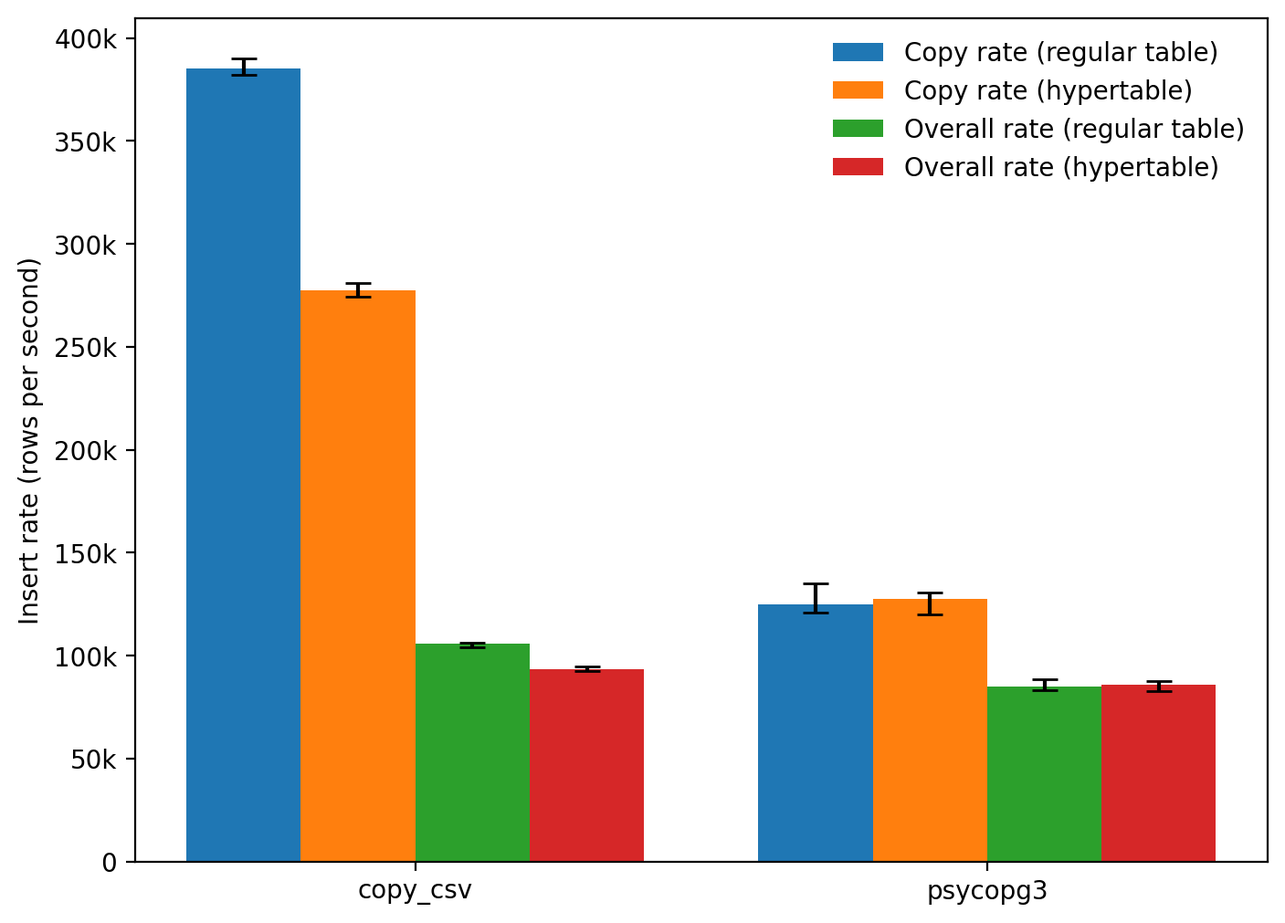
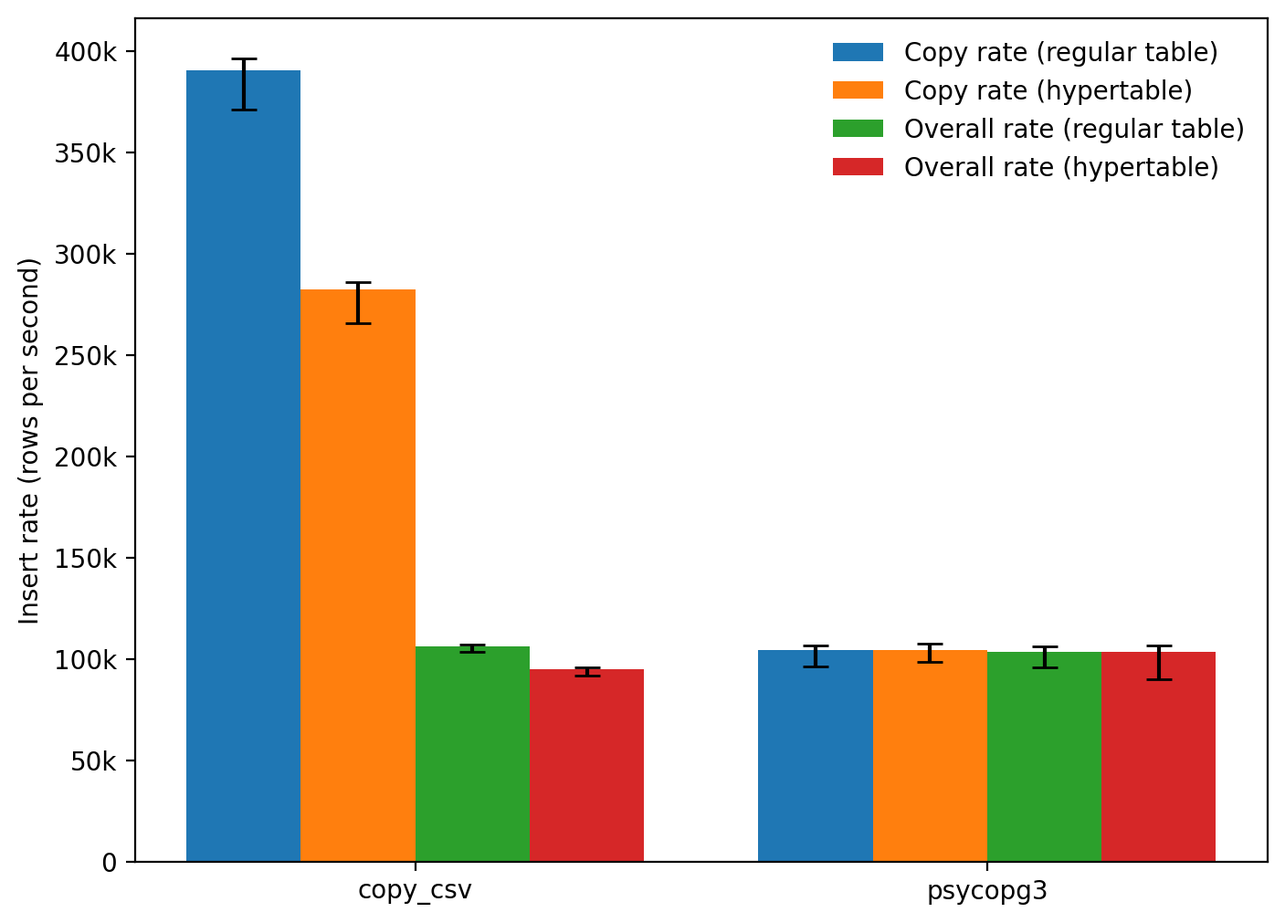
First blog post complete I think!

diff --git a/_posts/2024-03-29-trillion-rows.md b/_posts/2024-03-29-trillion-rows.md
@@ -19,23 +19,23 @@ github_discussion: https://github.com/ali-ramadhan/ali-ramadhan.Github.io/discus
 
 I think it would be cool to have historical weather data from around the world to analyze for signals of climate change we've _already_ had rather than think about potential future change.
 
-If we had a huge weather data warehouse we could query it to figure out whether Dallas is actually warmer or stormier these days and exactly how is it warmer (heat waves, winter highs, etc.). Or whether Chile is warming or getting cloudier as a whole, which could be region-specific. We could do this kind of analysis for every city or region on Earth to find out which places have already experienced the most climate change and what kind of change.
+If we had a huge weather data warehouse we could query it to figure out whether Jakarta is actually warmer or stormier these days and exactly how is it warmer (heat waves, winter highs, etc.). Or whether Chile is warming or getting cloudier as a whole, which could be region-specific. We could do this kind of analysis for every city or region on Earth to find out which places have already experienced the most climate change and what kind of change.
 
-But to do this analysis globally we need to make the data warehouse fast, and there's a lot of data. The first step is to load the data into a database of some kind. Even though I have no experience with PostgreSQL I want to load the data into Postgres and use TimescaleDB to speed up time-based queries and eventually PostGIS to speed up geospatial queries.
+But to do this analysis globally we need to make querying the data warehouse fast, and there's a lot of data. The first step is to load the data into a database of some kind. I'm going to try using PostgreSQL here. It should be a good learning experience and using TimescaleDB to speed up time-based queries and eventually PostGIS to speed up geospatial queries seems promising.
 
 To get there though we first need to load all this data into Postgres and this is what this post is about. Initial attempts at loading the data seemed slow so I wanted to investigate how to do this fast, leading me down a rabbit hole and me writing this.[^postgres-guide]
 
-[^postgres-guide]: The Postgres documentation does have a nice list of performance tips for [populating a database](https://www.postgresql.org/docs/current/populate.html) but I wanted some benchmarks and to include some external tools as well.
+[^postgres-guide]: The Postgres documentation does have a nice list of performance tips for [populating a database](https://www.postgresql.org/docs/current/populate.html) but I wanted some benchmarks and to consider some external tools as well.
 
-Are we building a data warehouse? Maybe, I don't even know. Is a relational database even appropriate for gridded weather data? No idea but we'll find out.
+Are we building a data warehouse? I think so...? Is a relational database even appropriate for gridded weather data? No idea but we'll find out.
 
 ## What's the data?
 
-We are not working with actual weather observations. They are great, but can be sparse in certain regions. Instead, we will be working with the ERA5 climate reanalysis product[^era5-explanation]. It's our best estimate of the historical state of the Earth's weather and is widely used in weather and climate research.
+We are not working with actual weather observations. They are great, but can be sparse in certain regions especially in the past. Instead, we will be working with the ERA5 climate reanalysis product[^era5-explanation]. It's our best estimate of the historical state of the Earth's weather and is widely used in weather and climate research.
+
+[^era5-explanation]: ERA5 is the latest [climate reanalysis](https://en.wikipedia.org/wiki/Atmospheric_reanalysis) product produced by the [ECMWF re-analysis](https://en.wikipedia.org/wiki/ECMWF_re-analysis) project. ECMWF is the [European Centre for Medium-Range Weather Forecasts](https://en.wikipedia.org/wiki/European_Centre_for_Medium-Range_Weather_Forecasts).
 
 The data is output from a climate model run that is constrained to match weather observations. So where we have lots of weather observations, ERA5 should match it closely. And where we do not have any weather observations, ERA5 will be physically consistent and should match the climatology, i.e. the simulated weather's statistics should match reality. At the top of this page is a snapshot of what global surface temperature looks like and below is a snapshot of global precipitation.
-
-[^era5-explanation]: ERA5 is the latest [climate reanalysis](https://en.wikipedia.org/wiki/Atmospheric_reanalysis) product produced by the [ECMWF re-analysis](https://en.wikipedia.org/wiki/ECMWF_re-analysis) project. ECMWF is the European Centre for Medium-Range Weather Forecasts.
 
 <figure class="centered" markdown="block">
 
@@ -45,7 +45,7 @@ The data is output from a climate model run that is constrained to match weather
 
 </figure>
 
-ERA5 covers the entire globe at 0.25 degree resolution, and stretches back in time to 1940 with hourly resolution. Here's what a time series of temperature looks like at one location.
+Here's what a time series of temperature looks like at one location.
 
 <figure class="centered width-80" markdown="block">
 
@@ -55,11 +55,11 @@ ERA5 covers the entire globe at 0.25 degree resolution, and stretches back in ti
 
 </figure>
 
-Hourly data stretching back to 1940 is 727,080 snapshots in time for each variable like temperature, precipitation, cloud cover, wind speed, etc. And at 0.25 degree resolution we have 1,036,080 locations. Together that's 753,836,544,000 or ~754 billion rows of data if indexed by time and location. That's a good amount of data. And as I found out, it's not trivial to quickly shove this data into a relational database, much less be able to query it quickly.
+ERA5 covers the entire globe at 0.25 degree resolution, and stretches back in time to 1940 with hourly resolution. Hourly data stretching back to 1940 is 727,080 snapshots in time for each variable like temperature, precipitation, cloud cover, wind speed, etc. A regularly-spaced latitude-longitude grid at 0.25 degree resolution has 1,038,240 grid points or locations (1440 longitudes and 721 latitudes including both poles). Together that's 753,836,544,000 or ~754 billion rows of data if indexed by time and location. That's a good amount of data. And as I found out, it's not trivial to quickly shove this data into a relational database, much less be able to query it quickly.
 
-The data is distributed as NetCDF[^netcdf-explanation] files indexed by time which makes it quick and easy to query the dataset at single points in time, but looking at temporal patterns is very slow as many files need to be read to pull out a single time series. It takes like 20~30 minutes to pull out temperature data for one location to make the plot above! Complex geospatial queries, especially over time, will be slow and difficult to perform. Packages like [xarray](https://xarray.dev/) and [dask](https://www.dask.org/) (and efforts by [Pangeo](https://pangeo.io/)) speed things up but it's still a slow process.
+The ERA5 data is distributed as NetCDF[^netcdf-explanation] files. You can query an API for the data or download it from certain providers but generally each file contains data for a day, a month, or a year. This chunking by time makes it quick and easy to query the dataset at single points in time, but looking at temporal patterns is very slow as many files need to be read to pull out a single time series. It takes like 20~30 minutes to pull out temperature data for one location to make the plot above! Complex geospatial queries, especially over time, will be slow and difficult to perform. Packages like [xarray](https://xarray.dev/) and [dask](https://www.dask.org/) (and efforts by [Pangeo](https://pangeo.io/)) speed things up but it's still a slow process.
 
-[^netcdf-explanation]: [NetCDF](https://en.wikipedia.org/wiki/NetCDF) (Network Common Data Form) files are ubiquitous in distributing output data from weather and climate models. They typically store multi-dimensional arrays for each variable output along with enough metadata that you don't need to refer to external documentation to use the data. The good ones do this at least.
+[^netcdf-explanation]: [NetCDF](https://en.wikipedia.org/wiki/NetCDF) (Network Common Data Form) files are ubiquitous in distributing model output in climate science, atmospheric science, and oceanography. They typically store multi-dimensional arrays for each variable output along with enough metadata that you don't need to refer to external documentation to understand and use the data. The good ones do this at least.
 
 We'll just load in temperature, zonal and meridional wind speeds, total cloud cover, precipitation, and snowfall for each time and location so we'll use this table schema:
 
@@ -78,7 +78,7 @@ create table weather (
 );
 ```
 
-And before you mention database normalization, yes I have both a `location_id` column and `latitude` and `longitude` columns. It's for later benchmarking whether spatial queries benefit from a normalized `locations` table.
+And before you mention database normalization, yes I have both a `location_id` column and `latitude` and `longitude` columns. It's for later benchmarking with queries and indexes.
 
 # The `insert` statement
 
@@ -171,9 +171,9 @@ insert into weather (
      6.303482, 6.017273, 0.88571167, 1.9253268, 0);
 ```
 
-This is faster for a few reasons. There's less network overhead as each single-row insert requires a network round trip for each row inserted. Postgres also only has to parse and plan once. Multi-row inserts can also be further optimized when it comes to updating indexes. It seems that you can bulk insert as many rows as you want as long as they fit in memory (or get too big that it's detrimental).
+This is faster for a few reasons. There's less network overhead as each single-row insert requires a network round trip for each row inserted. Postgres also only has to parse and plan once. Multi-row inserts can also be further optimized when it comes to updating indexes. It seems that you can bulk insert as many rows as you want as long as they fit in memory.
 
-In pandas it sounds like you can do this by passing the `method="multi"` keyword argument to the `df.to_sql()` function but I found this to be a bit slower than single-row inserts with `chunksize=1`. So I just didn't set a method or chunk size and supposedly all rows will be written at once, and it was faster. With psycopg3 you can construct a list of tuples, one for each row, and insert them all at once. With SQLAlchemy it's a dict of tuples.
+In pandas it sounds like you can do this by passing the `method="multi"` keyword argument to the `df.to_sql()` function but I found this to be a bit slower than single-row inserts with `chunksize=1`. So I just didn't set a method or chunk size and supposedly all rows will be written at once, and it was faster. With psycopg3 you can construct or stream a list of tuples, one for each row, and insert them all at once. With SQLAlchemy it's a dict of tuples.
 
 <figure class="centered width-80" markdown="block">
 
@@ -191,9 +191,9 @@ With multi-row inserts there's an order-of-magnitude improvement but at ~30k ins
 
 ## Upgrading to the `copy` statement
 
-For loading in larger amounts of data, Postgres has the `copy` statement allowing us to insert rows from a CSV file or from a binary file.[^copy-binary-note] `copy` is faster than multi-row inserts as `copy` as Postgres reads data straight from the file and optimizes parsing, planning, and WAL usage knowing there is a lot of data to load.
+For loading in larger amounts of data, Postgres has the `copy` statement allowing us to insert rows from a CSV file or from a binary file.[^copy-binary-note] `copy` is faster than multi-row inserts as Postgres reads data straight from the file and optimizes parsing, planning, and WAL usage knowing there is a lot of data to load.
 
-[^copy-binary-note]: Binary is _usually_ a more compact representation for floats and timestamps than plaintext so I was hoping to also benchmark `copy` with the binary format thinking it might be much faster. Unfortunately the [format Postgres expects](https://www.postgresql.org/docs/current/sql-copy.html) seems non-trivial and I couldn't easily find a library that would give me the binary I needed. And [Nick Babcock](https://nickb.dev/blog/disecting-the-postgres-bulk-insert-and-binary-format/) actually found that binary is no faster than csv, so it didn't seem worth trying. For reference, 31 days of ERA5 data takes up 7.8 GiB in NetCDF form and 71 GiB in CSV form.
+[^copy-binary-note]: Binary is _usually_ a more compact representation for floats and timestamps than plaintext so I was hoping to also benchmark `copy` with the binary format thinking it might be much faster. Unfortunately the [format Postgres expects](https://www.postgresql.org/docs/current/sql-copy.html) seems non-trivial and I couldn't easily find a library that would give me the binary format I needed. And [Nick Babcock](https://nickb.dev/blog/disecting-the-postgres-bulk-insert-and-binary-format/) actually found that binary is no faster than csv, so it didn't seem worth trying. For reference, 31 days of ERA5 data takes up 7.8 GiB in NetCDF form and 71 GiB in CSV form.
 
 Once you have a CSV file it's as simple as
 
@@ -201,9 +201,9 @@ Once you have a CSV file it's as simple as
 copy weather from some_big.csv delimiter ',' csv header;
 ```
 
-We have the option of saving data from NetCDF files as CSV files then using `copy csv`. This honestly feels inefficient as saving timestamps and floating-point numbers as plaintext to disk takes up more space that it should then reading it from disk seems like it would be slow, but Postgres seems to have optimized this operation. We also have the option of not saving the data into CSV files and piping it straight into Postgres using psycopg3's `cusor.copy()` function.
+We have the option of saving data from NetCDF files as CSV files then using `copy`. This honestly feels inefficient as saving timestamps and floating-point numbers as plaintext to disk takes up more space that it should then reading it from disk seems like it would be slow, but Postgres seems to have optimized this operation. We also have the option of not saving the data into CSV files and streaming it straight into Postgres using psycopg3's `cusor.copy()` function.
 
-When benchmarking `copy csv` vs. `psycopg3.cursor.copy()` we are starting with a pandas dataframe so we must account for the time it takes to save all the data to CSV files on disk in the case of `copy csv`. In the case of `cursor.copy()` we account for the time it takes to construct the list of tuples, one for each row.
+When benchmarking `copy` vs. `psycopg3.cursor.copy()` we are starting with a pandas dataframe so we must account for the time it takes to save all the data to CSV files on disk in the case of `copy csv`. In the case of `cursor.copy()` if we stream a list of tuples then the only overhead is creating the cursor and tuple generator.
 
 <figure class="centered width-80" markdown="block">
 
@@ -215,25 +215,27 @@ When benchmarking `copy csv` vs. `psycopg3.cursor.copy()` we are starting with a
 
 </figure>
 
-We see that `copy csv` can actually insert close to 400k rows per second, but that is if you already have the CSV file ready to go. Including overhead, both `copy csv` and psycopg3 can manage around 100k inserts/second.
+We see that `copy` can actually insert close to 400k rows per second, but that is if you already have the CSV file ready to go. Including overhead, both `copy` and psycopg3 can manage around 100k inserts/second with psycopg3 being a bit faster. For some reason there seems to be no difference between regular table and hypertable performance for psycopg3.
 
 At ~100k inserts/second we're still talking about ~3 months to load all the data 🐌
 
 ## Sustaining `copy` insert rates
 
-When inserting _many_ rows, Postgres may encounter bottlenecks so it's important that the insert rate can be sustained. To look at this, we can insert hundreds of millions of rows and watch for fluctuations in the insert rate.
+When inserting _many_ rows, Postgres may encounter bottlenecks[^write-bottlenecks] so it's important that the insert rate can be sustained. To look at this, we can insert hundreds of millions of rows and watch for fluctuations in the insert rate.
+
+[^write-bottlenecks]: Bottlenecks include the disk being overloaded with writes, usually made worse when the WAL and row insertion are competing for disk I/O. Autovacuuming, which removes dead rows, can also compete for I/O although when populating a database we can ensure that there won't be any duplicates so this could potentially be turned off. Postgres also periodically performs checkpoints to flush all outstanding WAL data to disk. Heavy writes can lead to more checkpoints and more competitinon for I/O.
 
 <figure class="centered width-80" markdown="block">
 
 ![copy at scale benchmarks](/img/trillion_rows/benchmarks_copy_at_scale.png)
 
 <figcaption>
-    For this benchmark, rows were inserted in 744 batches of 1,038,240 rows for a total of ~772 million rows. The overall insert rate is plotted. The dots show the insert rate for each batch while the solid lines show a 10-batch rolling mean.
+    For this benchmark, rows were inserted in 744 batches of 1,038,240 rows for a total of ~772 million rows. The overall insert rate is plotted. The dots show the insert rate for each batch while the solid lines show a 10-batch rolling mean. The straight horizontal lines show the mean insert rate over the entire benchmark. Note that the lines orange and blue straight lines are right on top of each other.
 </figcaption>
 
 </figure>
 
-It seems that, at least with one worker, we don't see huge drops in insert rates although `copy csv` shows frequent drops and seems more susceptible to fluctuations than copying with `psycopg3`. With `psycopg3` there isn't much of a difference between copying into a regular table or hypertable.
+It seems that, at least with one worker, we don't see huge drops in insert rates although `copy csv` shows frequent drops and seems more susceptible to fluctuations. psycopg3 is generally faster and interestingly there isn't much of a difference between copying into a regular table or hypertable.
 
 ## Parallel `copy`
 
@@ -249,9 +251,9 @@ Inserting data with `copy` is fast but can we speed it up by executing multiple 
 
 </figure>
 
-Inserting data into a single table is not super parallelizable so it looks like performance plateaus after 16 workers. But can the 800k inserts/sec rate into a regular table with 16 workers actually be sustained? I ran this benchmark with 31 days worth of ERA5 data (~772 million rows) and saw an overall insert rate of ~325k inserts/sec so it seems that the sustained rate is quite a bit lower.[^why-no-plot]
+Inserting data into a single table is not super parallelizable so it looks like performance generally plateaus after 16 workers.[^better-parallel-benchmark]
 
-[^why-no-plot]: I probably should have run the parallel `copy` benchmarks using more rows to measure a sustained rate. I wish there was an easy way to keep track of the total number of rows when inserting many rows in parallel but querying the row count seems very slow as Postgres is busy. I guess I could log a timestamp every time a worker inserted a batch of rows.
+[^better-parallel-benchmark]: I probably should have run the parallel `copy` benchmarks using more rows to measure a better sustained rate. I wish there was an easy way to keep track of the total number of rows when inserting many rows in parallel but querying the row count seems very slow as Postgres is busy. I guess I could log a timestamp every time a worker inserted a batch of rows. Also wish I repeated this benchmark but it takes quite a while to run.
 
 # Tools
 
@@ -285,7 +287,7 @@ timescaledb-parallel-copy lets you specify the number of workers inserting data 
 
 </figure>
 
-Initial performance looks great! But eventually, before 100 million rows on my system, a bottleneck is reached and the insert rate tanks before picking back up in waves. The maximum sustained insert rate is around 600~700k inserts/sec for regular tables and ~300k for hypertables. The bottleneck seemed to be the SSD where all the workers were writing to the DB, not the HDD where the data was being read from.
+Initial performance looks great! But eventually, before 100 million rows on my system, a bottleneck is reached and the insert rate tanks before picking back up in waves. The maximum sustained insert rate is around 600~700k inserts/sec for regular tables and ~300k for hypertables.
 
 pg_bulkload doesn't let you specify the number of threads or workers, but does have a `writer=parallel` option which uses multiple threads to do data reading, parsing and writing in parallel. We'll look at its insert rate later.
 
@@ -313,7 +315,7 @@ We want to end up with a hypertable but it seems like inserting into a regular t
 
 </figure>
 
-A quick test with inserting ~772 million rows with psycopg3's copy and 16 workers shows that inserting data into a hypertable is faster as it takes roughly 75% of the time in this case. This may not always be the case but inserting into a regular table then converting it to a hypertable and migrating the data will probably always be slower as the conversion/migration process is not super fast and seems to be single-threaded.
+A quick test with inserting ~772 million rows with psycopg3's copy and 16 workers shows that inserting data into a hypertable is faster as it takes roughly 80% of the time in this case. This may not always be the case but inserting into a regular table then converting it to a hypertable and migrating the data will probably always be slower as the conversion/migration process is not super fast and seems to be single-threaded.
 
 Now that we've concluded we want to be inserting data into a hypertable, let's take a look at the all hypertable insert rates we've considered in one plot.
 
@@ -322,25 +324,27 @@ Now that we've concluded we want to be inserting data into a hypertable, let's t
 ![benchmarks summary](/img/trillion_rows/benchmarks_summary.png)
 
 <figcaption>
-    Sustained hypertable insert rates including overhead (e.g. writing CSV files or constructing tuples) for different insertion methods. Here "tpc" is short for timescaledb-parallel-copy and "pgb" is short for pg_bulkload. "32W" means 32 workers were used for that benchmark.
+    Sustained hypertable insert rates including overhead (writing CSV files) for different insertion methods. Here "tpc" is short for timescaledb-parallel-copy and "pgb" is short for pg_bulkload. "32W" means 32 workers were used for that benchmark.
 </figcaption>
 
 </figure>
 
+For pg_bulkload with a single worker the the `writer=buffered` option was used. For multiple workers, the `writer=buffered` and `multi_process=yes` options were used. Then for multiple workers with fsync off, the `writer=parallel` option was used.
+
 So what can we conclude?
 
-1. At least on my hardware it seems there's a ceiling of ~100k sustained inserts/sec when using a single worker with protections on.
-2. You can use multiple workers to increase the sustained insert rate by ~2.5x up to ~250k inserts/sec while still being protected.
-3. The insertion process is not very parallelizable so the sweet spot is 4-16 workers. The benchmarks use 32 workers to maximize insert rates but 32 feels past the point of diminishing returns just to squeeze out a few extra inserts.
+1. At least on my hardware it seems there's a ceiling of ~140k sustained inserts/sec with overhead when using a single worker with protections on. pg_bulkload wins here by quite a bit.
+2. You can use multiple workers to increase the sustained insert rate up to ~250k inserts/sec with psycopg3's copy cursor while still being protected.
+3. The insertion process is not very parallelizable so the sweet spot is 4-16 workers. The benchmarks used 32 workers to maximize insert rates.
 4. If you're okay living a bit dangerously you can turn off fsync and sustain an insert rate of ~462k inserts/sec with psycopg3! You'll also squeeze out a bit more performance out of timescaledb-parallell-copy.
-5. Be careful when using pg_bulkload as it disables `fsync` by default. When compared more fairly, timescaledb-parallel-copy is a bit faster.
-6. These conclusions assume you need to do extra work to convert data to CSV files which is why psycopg3 was the clear winner, although it does seem pretty fast. If you're starting with CSV files timescaledb-parallel-copy might be faster (and quicker to set up).
+5. Be careful when using pg_bulkload as it disables `fsync` by default.
+6. These conclusions assume you need to do extra work to convert data to CSV files which is why psycopg3 was the clear winner, although it does seem pretty fast. If you're starting with CSV files timescaledb-parallel-copy is probably faster (and quicker to set up).
 
 Some closing thoughts:
 
-1. Want even faster inserts? You should probably upgrade your hardware. A nice enterprise-grade NvME SSD and lots of high-speed DDR5 RAM will probably help a lot. I used hardware that is roughly 5 years old so newer hardware should be able to easily beat these benchmarks.
-2. I like working with my own hardware (and can't afford cloud resources for personal use) but I found it interesting that Amazon's RDS for PostgreSQL only gives you 3000 IOPS by default and even the largest 64 TB volume gives you 256,000 IOPS. Comment on https://aws.amazon.com/blogs/database/optimized-bulk-loading-in-amazon-rds-for-postgresql/ ?
-3. I'd be curious how ClickHouse performs on these benchmarks. My impression is that it would probably be faster out of the box. But I want to learn PostgreSQL and love the fact that TimescaleDB is just a Postgres extension so I went with TimescaleDB.
+1. Want even faster inserts? You should probably upgrade your hardware. A nice enterprise-grade NvME SSD and lots of high-speed DDR5 RAM will help a lot. I used hardware that is roughly 5 years old so newer hardware should be able to easily beat these benchmarks.
+2. I know the general wisdom is to just dump this data into Snowflake or BigQuery and get fast analytics for relatively cheap. But I like working with my own hardware and learning this way. Plus I have no real budget for this project.
+3. I'd be curious how ClickHouse performs on these benchmarks. My impression is that it would probably be faster out of the box. But I want to learn PostgreSQL and like the fact that TimescaleDB is just a Postgres extension so I went with TimescaleDB.
 
 At a sustained ~462k inserts per second, we're waiting ~20 days for our ~754 billion rows which is not bad I guess. It's less time than it took me to write this post.
 
